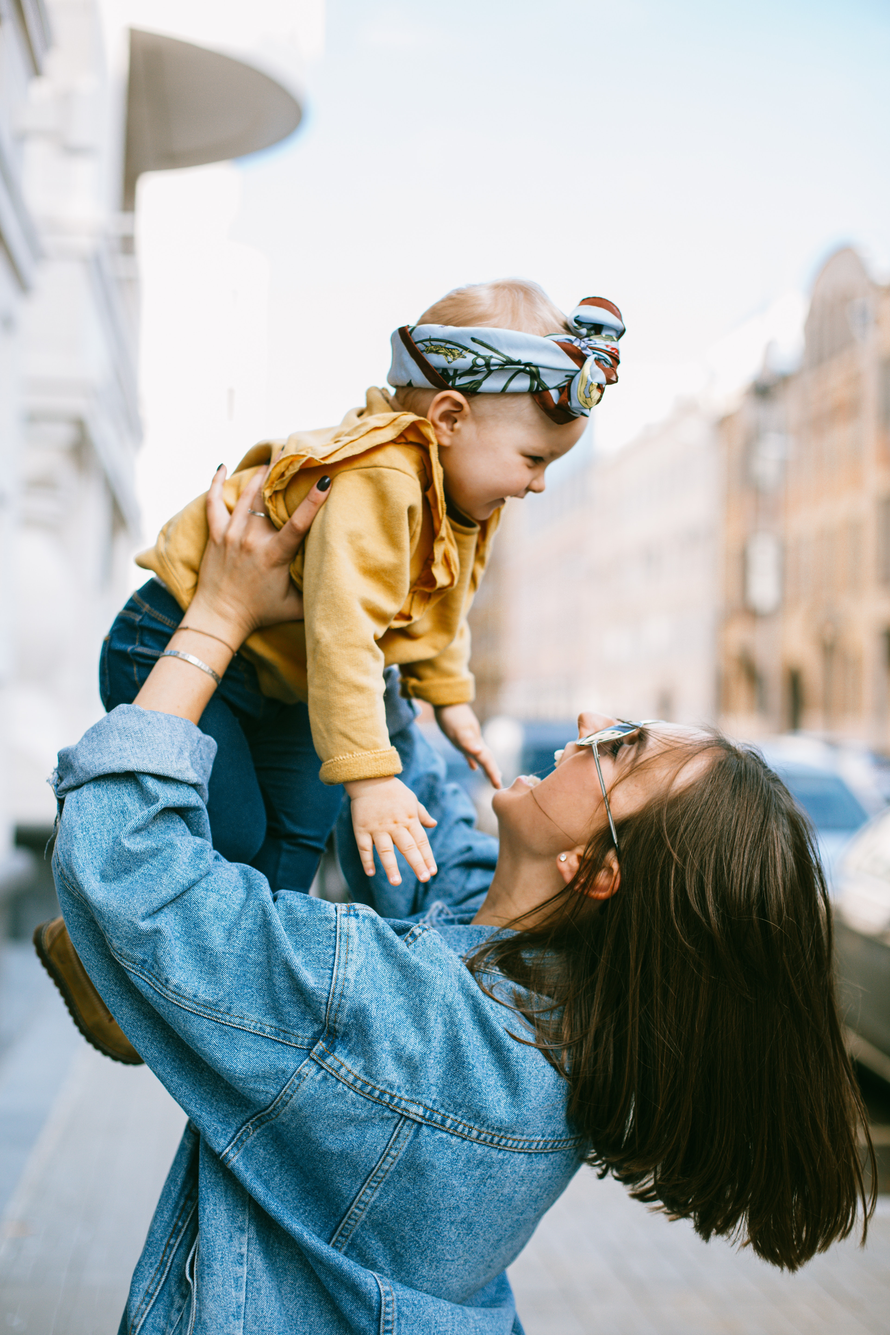
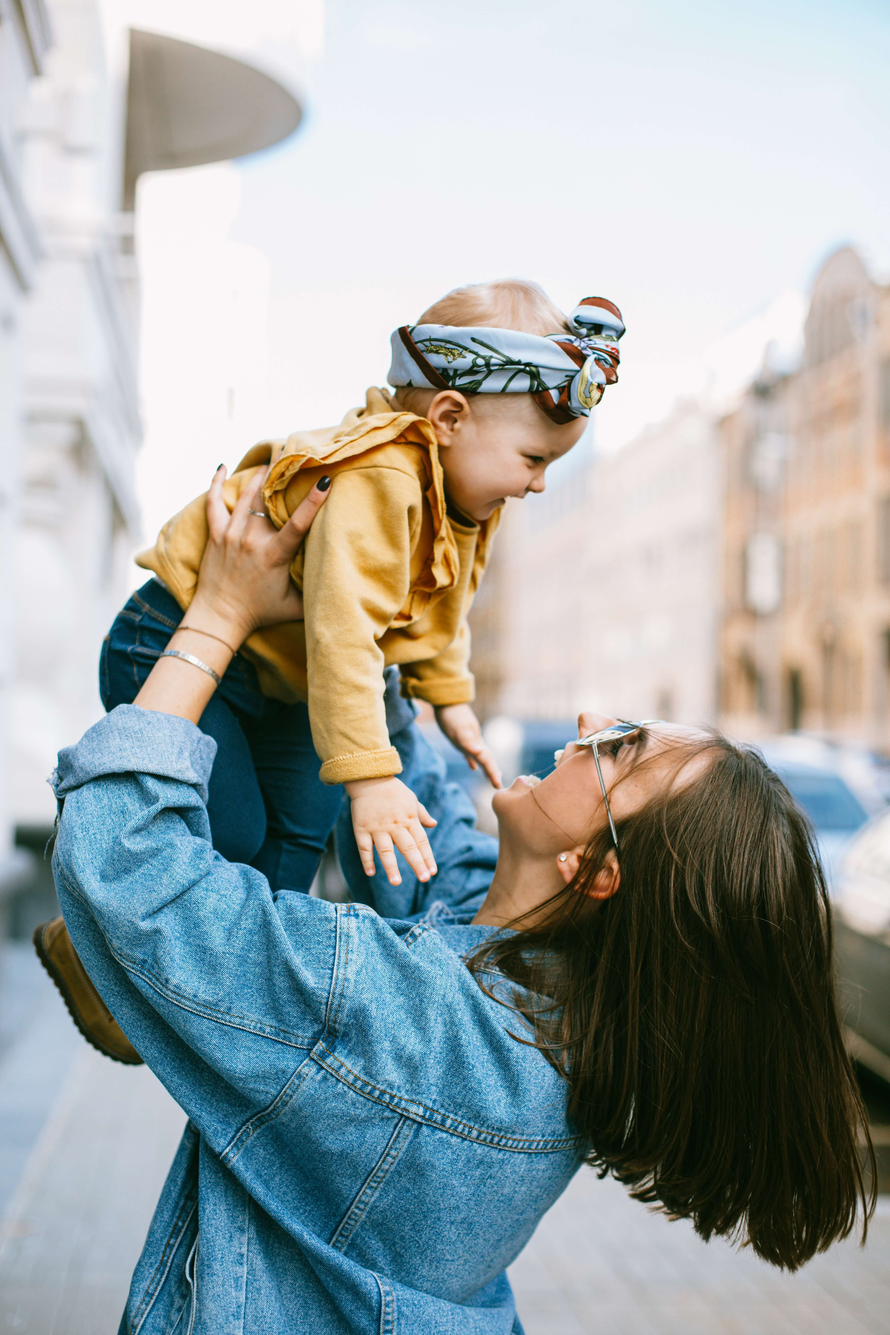
resized images in passions section, added cover section and event section.

Changed region(s): [[0.0938, 0.5938, 0.5938, 0.875]]

diff --git a/index.html b/index.html
@@ -19,46 +19,40 @@
 <body>
     <header>
         <nav class="navbar navbar-expand-lg navbar-light bg-light sticky-top">
-          <a class="navbar-brand" href="#"><img id="nav-img" src="assets/images/logo.png" alt="logo-girlonearth"/></a>
-        <button
-          class="navbar-toggler ml-auto"
-          type="button"
-          data-toggle="collapse"
-          data-target="#navbarSupportedContent"
-          aria-controls="navbarSupportedContent"
-          aria-expanded="false"
-          aria-label="Toggle navigation"
-        >
-          <span class="navbar-toggler-icon"></span>
-        </button>
-        <div class="collapse navbar-collapse" id="navbarSupportedContent">
-          <ul class="navbar-nav ml-auto">
-            <li class="nav-item active">
-              <a class="nav-link" href="#"
-                >Home <span class="sr-only">(current)</span></a
-              >
-            </li>
-            <li class="nav-item">
-              <a class="nav-link" href="#">About</a>
-            </li>
-            <li class="nav-item">
-              <a class="nav-link" href="#">Passions</a>   
-            </li>
-            <li class="nav-item">
-              <a
-                class="nav-link"
-                href="#"
-                >Contact</a
-              >
-            </li>
-          </ul>
-        </div>
-      </nav>
+            <a class="navbar-brand" href="#"><img id="nav-img" src="assets/images/logo.png"
+                    alt="logo-girlonearth" /></a>
+            <button class="navbar-toggler ml-auto" type="button" data-toggle="collapse"
+                data-target="#navbarSupportedContent" aria-controls="navbarSupportedContent" aria-expanded="false"
+                aria-label="Toggle navigation">
+                <span class="navbar-toggler-icon"></span>
+            </button>
+            <div class="collapse navbar-collapse" id="navbarSupportedContent">
+                <ul class="navbar-nav ml-auto">
+                    <li class="nav-item active">
+                        <a class="nav-link" href="#">Home <span class="sr-only">(current)</span></a>
+                    </li>
+                    <li class="nav-item">
+                        <a class="nav-link" href="#">About</a>
+                    </li>
+                    <li class="nav-item">
+                        <a class="nav-link" href="#">Passions</a>
+                    </li>
+                    <li class="nav-item">
+                        <a class="nav-link" href="#">Contact</a>
+                    </li>
+                </ul>
+            </div>
+        </nav>
     </header>
+    <section class="cover">
+        <p>We only live once, become the person <span class="animation">you</span> want to be!</p>
+    </section>
     <section class="about">
         <div class="container">
             <img src="assets/images/about-image.jpg" alt="girl-group">
-            <p>GirlOnEarth. is a local female group passionate about living. We focus on personal growth, we believe everyone should be constantly working on themselves to fully enjoy life. We gather once a week to share ideas and activities to connect with people and ourselves. </p>
+            <p>GirlOnEarth. is a local female group passionate about living. We focus on personal growth, we believe
+                everyone should be constantly working on themselves to fully enjoy life. We gather once a week to share
+                ideas and activities to connect with people and ourselves. </p>
         </div>
     </section>
     <section class="divider">
@@ -109,6 +103,35 @@
                 <p class="quotes">Parenting happens when you start controlling yourself and stop controlling your child.
                 </p>
             </div>
+        </div>
+    </section>
+    <section class="divider">
+        <p>A journey of a thousands miles begins with a single step!</p>
+    </section>
+    <section class="events">
+        <div class="event-1">
+            <img src="assets/images/yoga-meditation.jpg" alt="yoga-meditation">
+            <ul>
+                <li>what</li>
+                <li>When</li>
+                <li>where</li>
+            </ul>
+        </div>
+        <div class="event-2">
+            <img src="assets/images/beauty-fashion.jpg" alt="dressing-room">
+            <ul>
+                <li>what</li>
+                <li>When</li>
+                <li>where</li>
+            </ul>
+        </div>
+        <div class="event-3">
+            <img src="assets/images/parenting-relationship.jpg" alt="group-chat">
+            <ul>
+                <li>what</li>
+                <li>When</li>
+                <li>where</li>
+            </ul>
         </div>
     </section>
     <section class="form-section">

diff --git a/assets/css/style.css b/assets/css/style.css
@@ -1,6 +1,6 @@
-
 @import url('https://fonts.googleapis.com/css2?family=Architects+Daughter&family=Dancing+Script:wght@700&family=Pacifico&family=Syne+Mono&display=swap');
 @import url('https://fonts.googleapis.com/css2?family=Josefin+Sans:ital@1&display=swap');
+
 /* ---------------------- header */
 
 body {
@@ -27,6 +27,23 @@ body {
     font-size: 2rem;
     margin-top: 50px;
 }
+/*-------------------- cover */
+.cover {
+    display: flex;
+    align-items: center;
+    justify-content: center;
+    height: 90vh;
+    background-image: url(../images/cover.jpg);
+    background-size: cover;
+}
+.cover p {
+    font-family: Verdana, Geneva, Tahoma, sans-serif;
+    font-size: 7em;
+    text-transform: capitalize;
+    color: #a5a58d;
+    text-align: center;
+}
+
 /*-------------------- about */
 
 .container {
@@ -96,6 +113,17 @@ body {
 .box img:hover {
     transform: scale(0.95);
 }
+/* ------------------- events */
+.events img {
+    height: 20vh;
+    width: 20vw;
+}
+.events {
+    display: flex;
+    padding: 0 10%;
+
+}
+
 
 
 /* -------------------form */
@@ -203,8 +231,7 @@ footer {
     color:rgb(92, 40, 40);
 
 }
-
-
+/* --------------------- media query */
 
 @media only screen and (max-width: 990px) {
     .navbar-nav {
